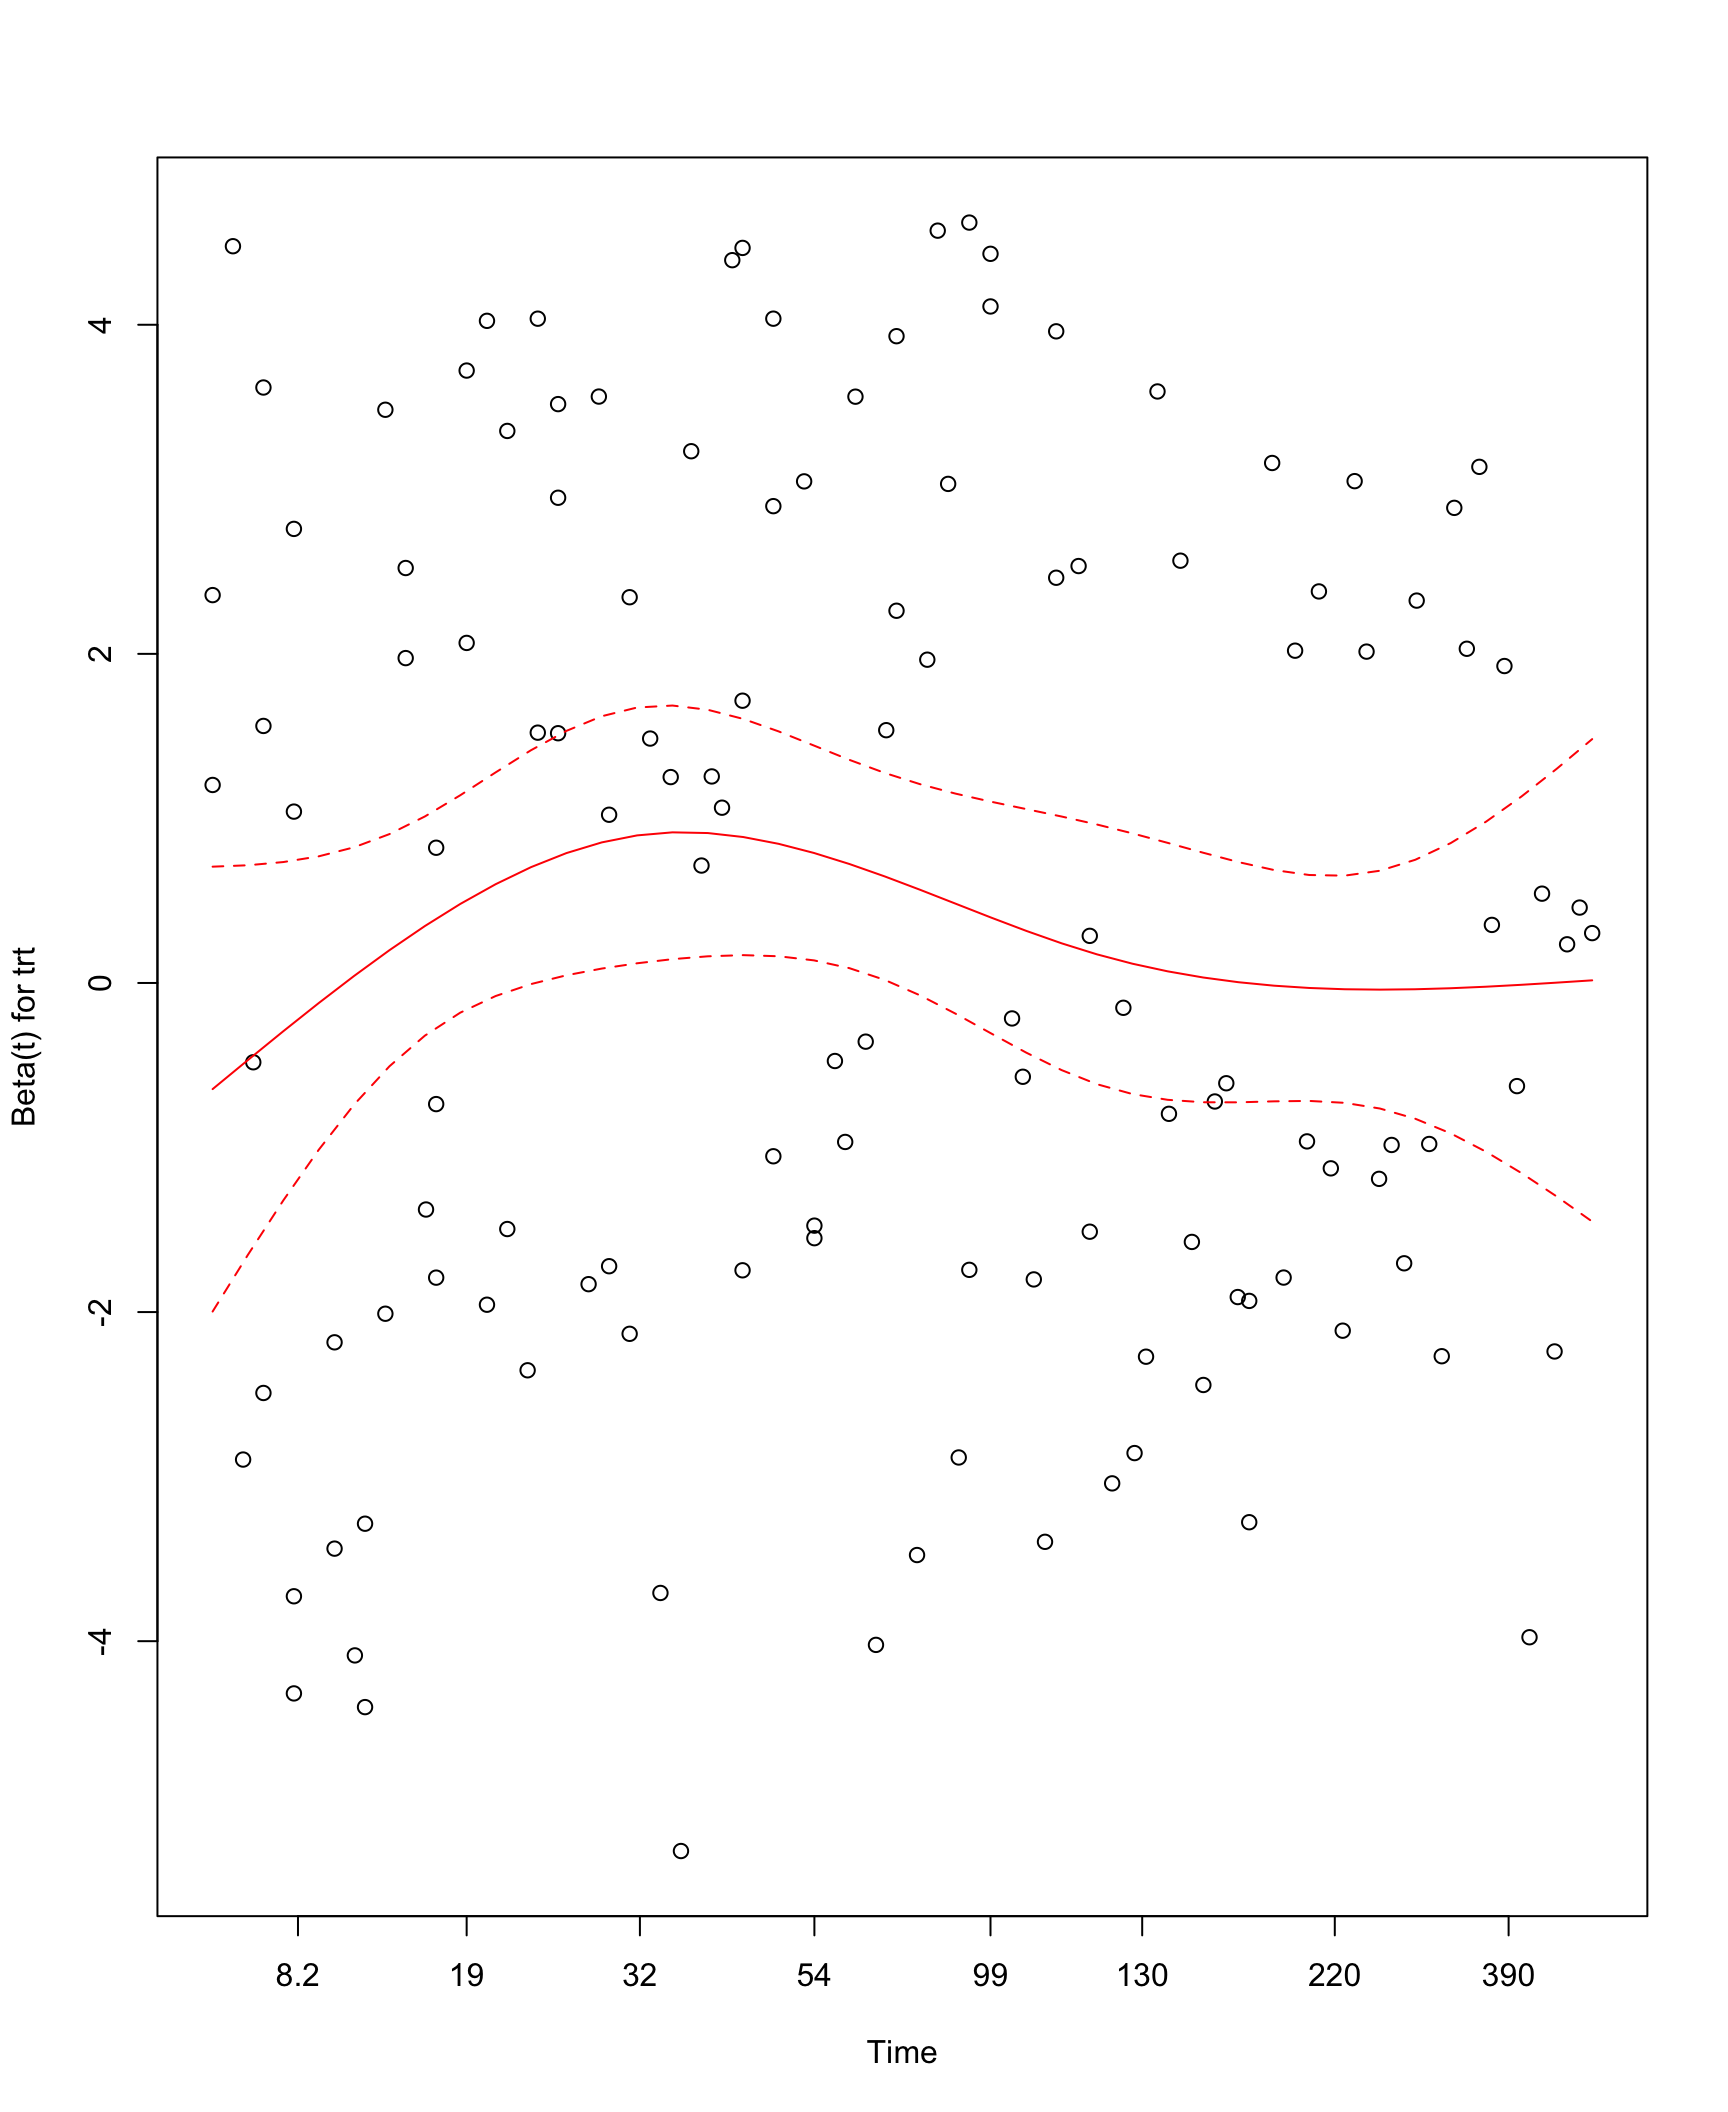
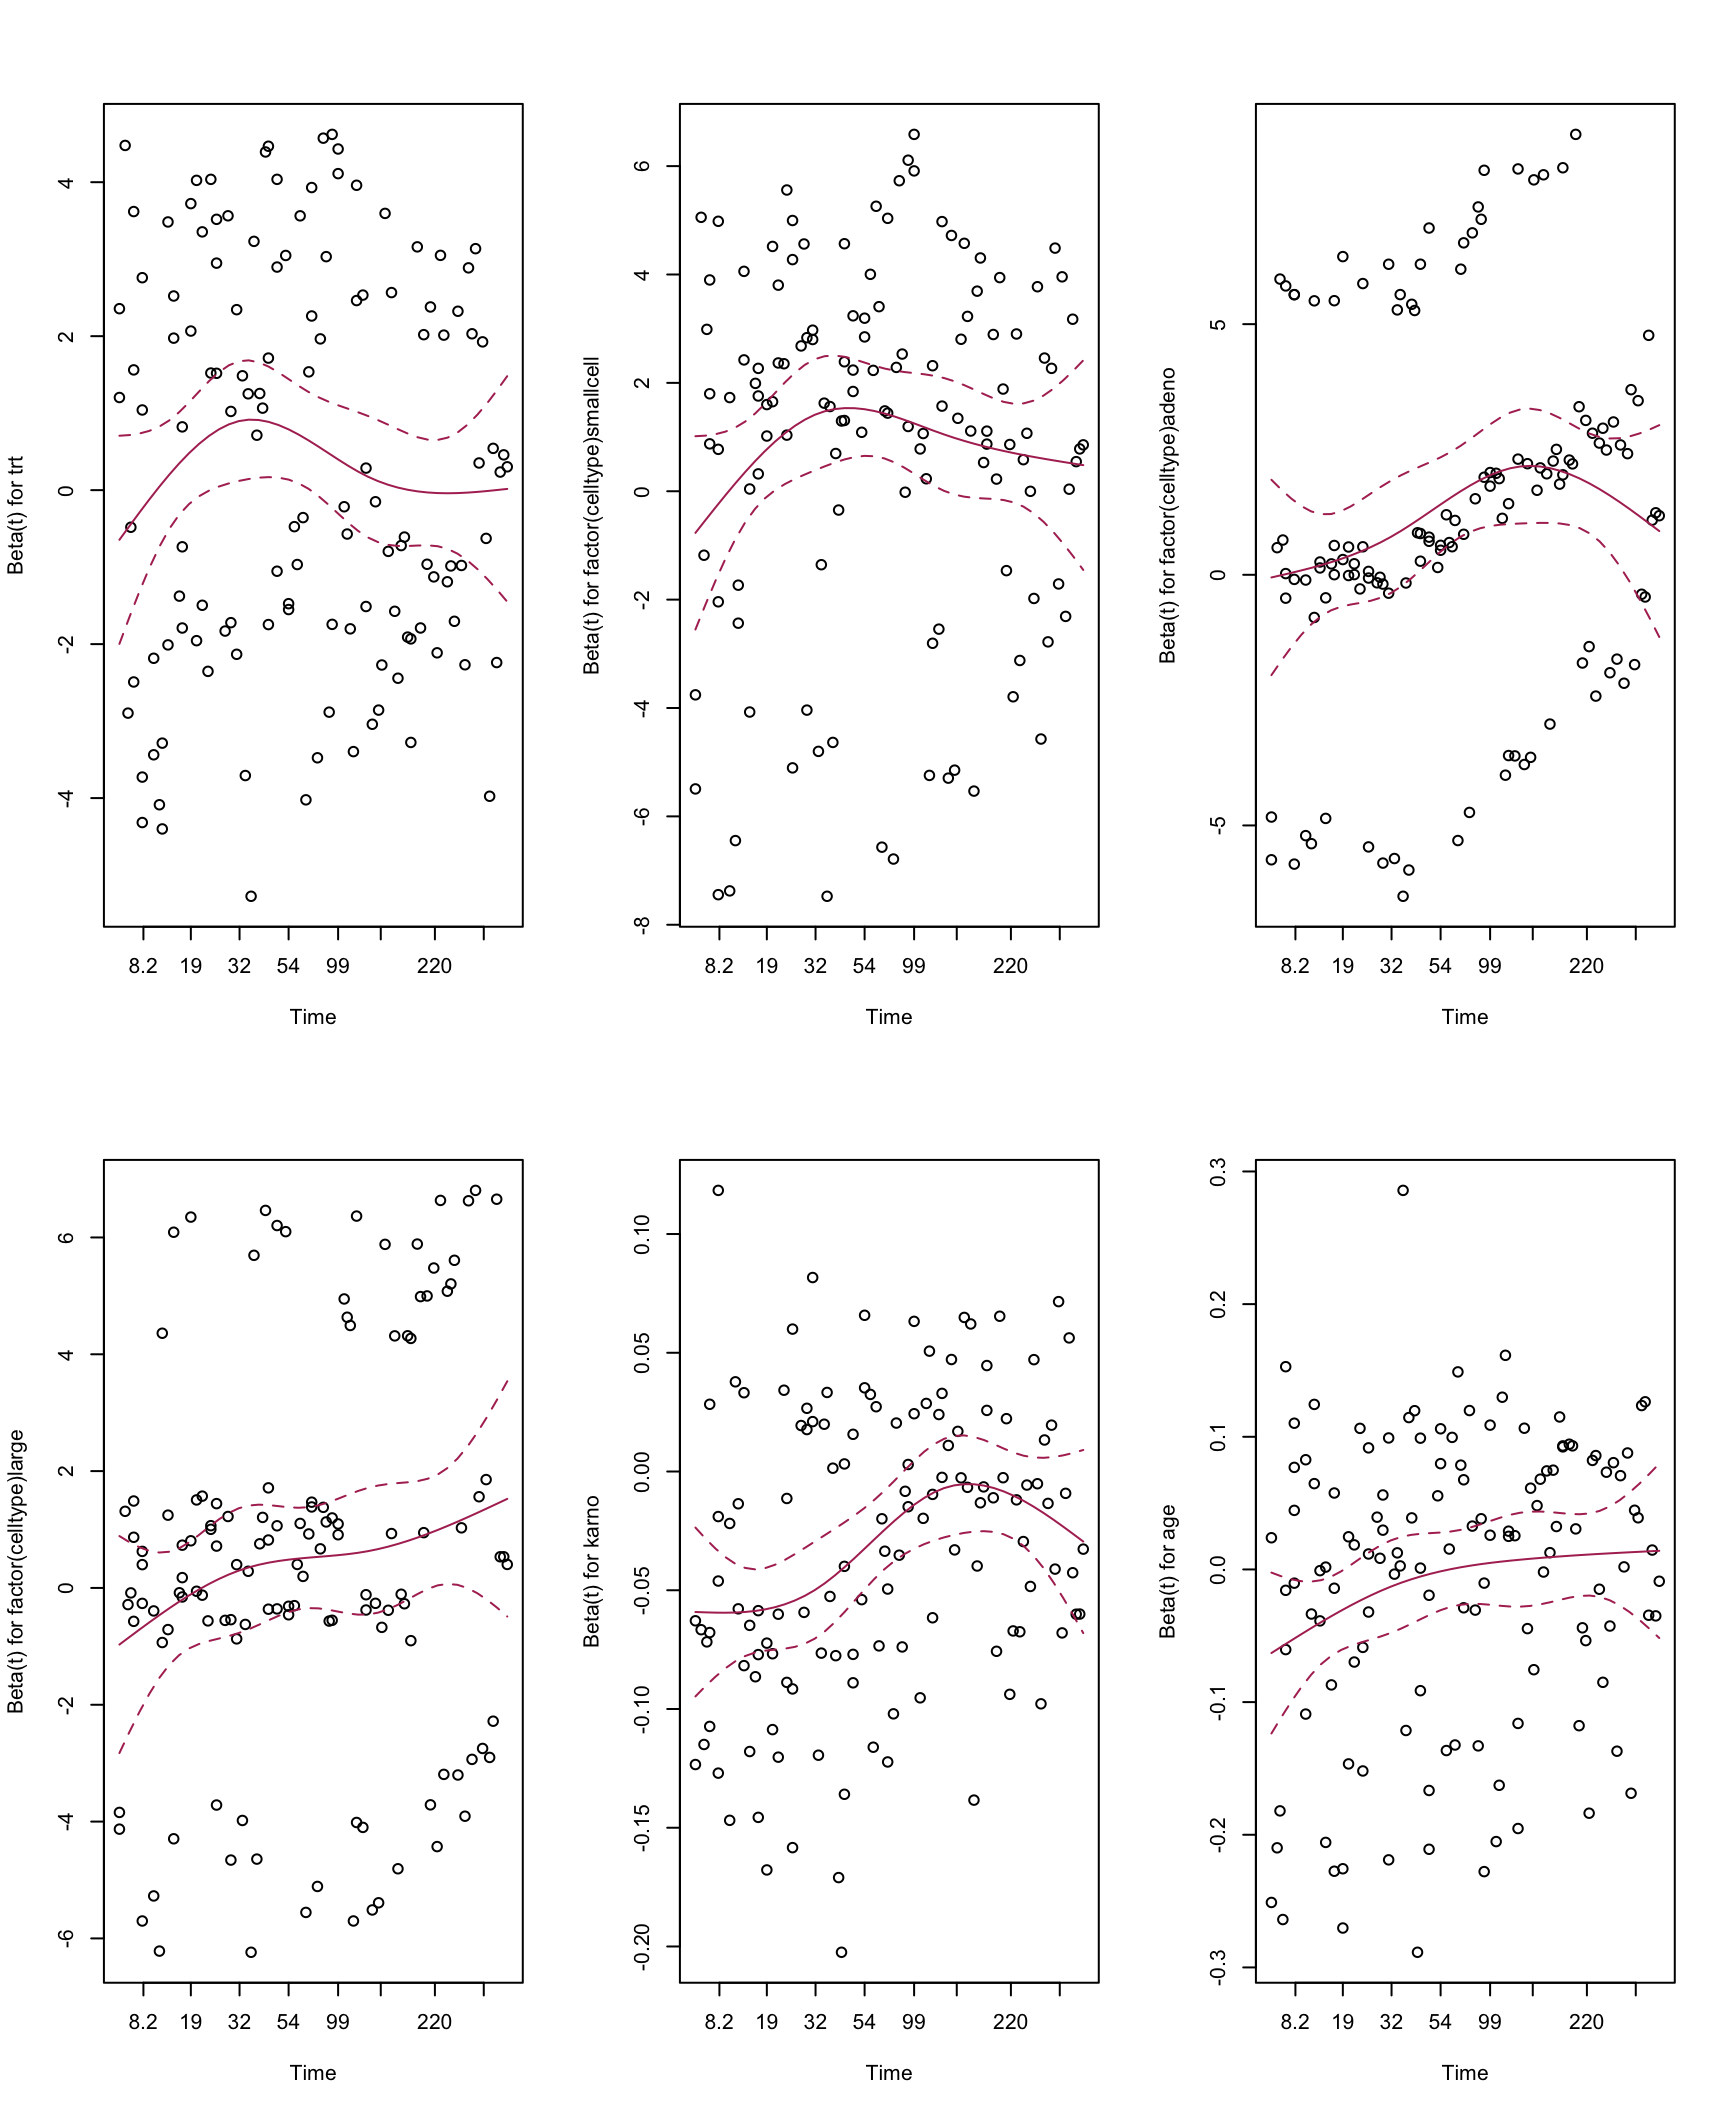
charts

diff --git a/README.md b/README.md
@@ -32,16 +32,21 @@ vfit <- coxph(Surv(time, status) ~ trt + factor(celltype) +
 ```
 
 ``` r
-gg_cox_zph(fortify(cox.zph(vfit)), pred_col="red")
+gg_cox_zph(fortify(cox.zph(vfit)), pred_col="maroon")
 ```
 
 <img src="README-unnamed-chunk-2-1.png" title="" alt="" width="864" />
 
 ``` r
-plot(cox.zph(vfit), smoothcol="red", confcol="red")
+par(mfrow=c(2, 3))
+plot(cox.zph(vfit), smoothcol="maroon", confcol="maroon")
 ```
 
-<img src="README-unnamed-chunk-3-1.png" title="" alt="" width="864" /><img src="README-unnamed-chunk-3-2.png" title="" alt="" width="864" /><img src="README-unnamed-chunk-3-3.png" title="" alt="" width="864" /><img src="README-unnamed-chunk-3-4.png" title="" alt="" width="864" /><img src="README-unnamed-chunk-3-5.png" title="" alt="" width="864" /><img src="README-unnamed-chunk-3-6.png" title="" alt="" width="864" />
+<img src="README-unnamed-chunk-3-1.png" title="" alt="" width="864" />
+
+``` r
+par(mfrow=c(1, 1))
+```
 
 ### Test Results
 
@@ -50,7 +55,7 @@ library(gghazard)
 library(testthat)
 
 date()
-#> [1] "Sun Aug 30 23:18:20 2015"
+#> [1] "Sun Aug 30 23:20:15 2015"
 
 test_dir("tests/")
 #> testthat results ========================================================================================================
